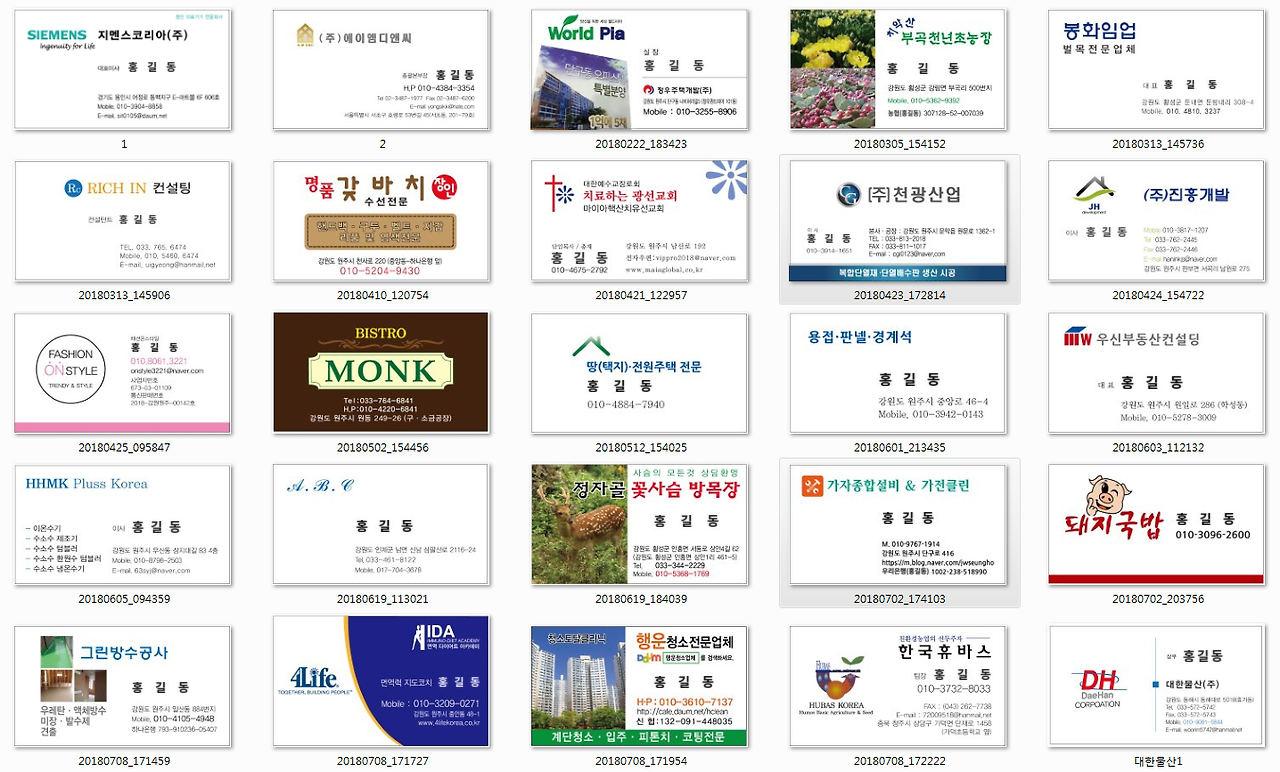
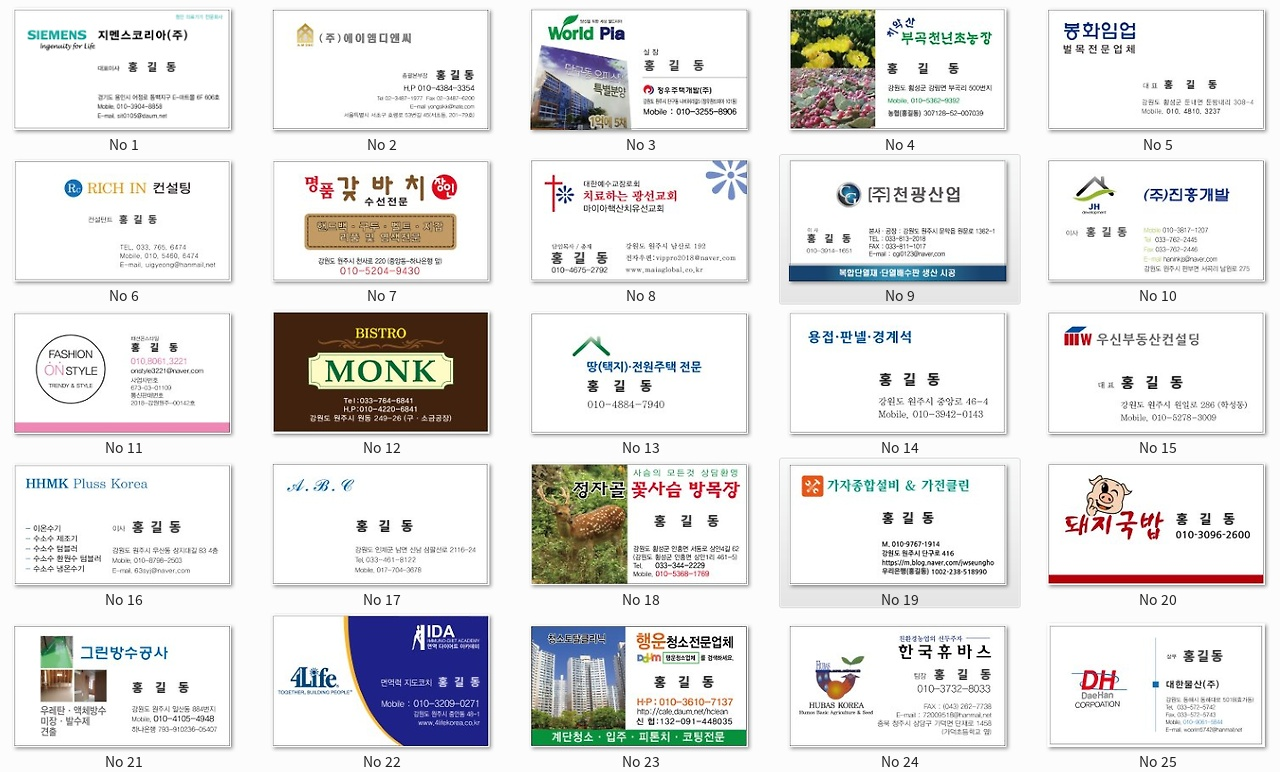
명함번호

diff --git a/admin.html b/admin.html
@@ -11,7 +11,9 @@
 <script src="https://cdnjs.cloudflare.com/ajax/libs/jszip/3.10.1/jszip.min.js"></script>
 <!--
   디자인뱅크 사이트 편집기
-  - 이 파일을 사이트 폴더(index.html 옆)에 두고 크롬이나 엣지로 여세요.
+  - 사이트에 올려 두고 https://dnb1.co.kr/admin.html 로 열면, GitHub 토큰으로 연결해
+    어디서든 바로 고치고 [사이트에 저장]으로 즉시 반영할 수 있습니다. (토큰은 이 파일에 들어 있지 않습니다)
+  - 컴퓨터에서 쓸 때는 이 파일을 사이트 폴더(index.html 옆)에 두고 크롬이나 엣지로 여세요.
   - [사이트 폴더 열기]로 폴더를 고르면 글씨, 사진, 가격표, 공지사항을 고칠 수 있고
     [저장]을 누르면 html 파일과 js/common.js가 직접 수정됩니다.
   - 저장할 때마다 바뀌기 전 파일이 _backup 폴더에 보관됩니다.
@@ -57,6 +59,18 @@ button,input,textarea,select{font:inherit;color:inherit}
 .start-actions{display:flex;flex-direction:column;gap:10px;align-items:stretch;max-width:360px}
 .start-note{font-size:13.5px;border-left:3px solid var(--orange);padding:4px 0 4px 12px}
 .start-err{color:#b3261e;font-weight:500}
+.gh{display:flex;flex-direction:column;gap:14px;max-width:420px}
+.gh .hint a{color:var(--orange-ink);text-decoration:underline}
+.chk{display:flex;gap:8px;align-items:center;font-size:14px;cursor:pointer}
+.chk input{accent-color:var(--orange);width:16px;height:16px}
+.local{max-width:420px;border-top:1px solid var(--line);padding-top:14px}
+.local summary{cursor:pointer;color:var(--mute);font-size:14px}
+.local[open] summary{margin-bottom:14px}
+.local .start-actions{margin-bottom:12px}
+.connecting{font-size:16px;color:var(--ink)}
+.side-foot button{background:none;border:1px solid #4a4848;color:#d6d3d3;padding:6px 10px;border-radius:3px;cursor:pointer;font-size:12.5px}
+.side-foot button:hover{border-color:#fff;color:#fff}
+.btn.view{text-decoration:none;color:inherit}
 
 /* ---------- 버튼 ---------- */
 .btn{display:inline-flex;align-items:center;justify-content:center;gap:6px;min-height:40px;padding:0 16px;border:1px solid var(--line);background:#fff;border-radius:3px;cursor:pointer;font-weight:500;white-space:nowrap}
@@ -120,9 +134,9 @@ button,input,textarea,select{font:inherit;color:inherit}
 .hint{margin:0;color:var(--mute);font-size:12.5px}
 .field.missing{color:var(--mute);font-size:13.5px}
 .field.missing p{margin:0;padding:10px 12px;background:var(--soft)}
-input[type=text],input[type=date],textarea{width:100%;min-height:42px;padding:9px 12px;border:1px solid var(--line);border-radius:3px;background:#fff;line-height:1.55}
+input[type=text],input[type=password],input[type=date],textarea{width:100%;min-height:42px;padding:9px 12px;border:1px solid var(--line);border-radius:3px;background:#fff;line-height:1.55}
 input[type=text]:hover,input[type=date]:hover,textarea:hover{border-color:#a9a7a7}
-input[type=text]:focus,input[type=date]:focus,textarea:focus{outline:none;border-color:var(--orange);box-shadow:0 0 0 3px rgba(250,146,81,.25)}
+input[type=text]:focus,input[type=password]:focus,input[type=date]:focus,textarea:focus{outline:none;border-color:var(--orange);box-shadow:0 0 0 3px rgba(250,146,81,.25)}
 textarea{resize:vertical;min-height:70px;overflow:hidden}
 textarea.list{font-size:14px;line-height:1.75}
 .changed > label::after,.changed > .flabel::after{content:"";display:inline-block;width:8px;height:8px;margin-left:7px;vertical-align:1px;background:var(--red);clip-path:polygon(50% 0,100% 100%,0 100%)}
@@ -216,15 +230,32 @@ textarea.list{font-size:14px;line-height:1.75}
     <h1>사이트 편집기</h1>
   </div>
   <div class="start-r">
-    <p class="lead">사이트 폴더를 열면 페이지 글씨, 사진, 가격표, 포트폴리오 이미지, 공지사항을 칸에 입력하듯 고칠 수 있습니다.</p>
-    <p>index.html이 들어 있는 폴더를 고르세요.</p>
-    <div class="start-actions">
-      <button class="btn accent big" id="openDir" type="button">사이트 폴더 열기</button>
-      <button class="btn big" id="reopen" type="button" hidden></button>
-      <button class="btn ghost" id="openZip" type="button">ZIP 파일로 열기</button>
-    </div>
-    <p class="start-note" id="browserNote"></p>
+    <p class="lead">글씨, 사진, 가격표, 포트폴리오 이미지, 공지사항을 칸에 입력하듯 고치고, 저장하면 사이트에 바로 반영됩니다.</p>
+    <p class="connecting" id="connecting" hidden>GitHub에 연결하는 중입니다…</p>
+    <form class="gh" id="ghForm" autocomplete="off">
+      <div class="field">
+        <label for="ghRepo">GitHub 저장소</label>
+        <input type="text" id="ghRepo" placeholder="아이디/저장소이름" spellcheck="false" required>
+        <p class="hint">github.com/<b>아이디/저장소이름</b> 부분입니다. 주소를 통째로 붙여 넣어도 됩니다.</p>
+      </div>
+      <div class="field">
+        <label for="ghToken">GitHub 토큰</label>
+        <input type="password" id="ghToken" placeholder="github_pat_로 시작하는 값" spellcheck="false" required>
+        <p class="hint"><a href="https://github.com/settings/personal-access-tokens/new" target="_blank" rel="noopener">토큰 만들기</a>에서 이 저장소만 고르고, Contents 권한을 Read and write로 주세요.</p>
+      </div>
+      <label class="chk"><input type="checkbox" id="ghRemember" checked> 이 브라우저에서 기억하기 (다음부터 바로 열림)</label>
+      <button class="btn accent big" type="submit" id="ghGo">연결하고 편집하기</button>
+    </form>
     <p class="start-err" id="startErr" role="alert" hidden></p>
+    <details class="local" id="localBox">
+      <summary>컴퓨터에 있는 사이트 폴더로 편집하기</summary>
+      <div class="start-actions">
+        <button class="btn big" id="openDir" type="button">사이트 폴더 열기</button>
+        <button class="btn big" id="reopen" type="button" hidden></button>
+        <button class="btn ghost" id="openZip" type="button">ZIP 파일로 열기</button>
+      </div>
+      <p class="start-note" id="browserNote"></p>
+    </details>
   </div>
 </div>
 
@@ -236,6 +267,7 @@ textarea.list{font-size:14px;line-height:1.75}
     <span class="spacer"></span>
     <span class="status" id="status" aria-live="polite">고친 내용 없음</span>
     <span class="acts row">
+      <a class="btn sm ghost view" id="viewSite" target="_blank" rel="noopener" hidden>사이트 보기</a>
       <button class="btn sm ghost" id="discard" type="button" disabled>되돌리기</button>
       <button class="btn primary" id="save" type="button" disabled>저장</button>
     </span>
@@ -243,7 +275,11 @@ textarea.list{font-size:14px;line-height:1.75}
   <aside class="side">
     <nav id="nav" aria-label="편집할 페이지"></nav>
     <div class="side-foot" id="sideFoot">
-      <label><input type="checkbox" id="backupChk" checked> 저장할 때 바뀌기 전 파일을 _backup 폴더에 보관</label>
+      <label id="backupLbl"><input type="checkbox" id="backupChk" checked> 저장할 때 바뀌기 전 파일을 _backup 폴더에 보관</label>
+      <div id="ghFoot" hidden>
+        <p style="margin:0 0 10px">저장할 때마다 GitHub에 기록이 남아, 예전 내용으로 언제든 되돌릴 수 있습니다.</p>
+        <button type="button" id="ghLogout">연결 끊기 (저장된 토큰 지우기)</button>
+      </div>
     </div>
   </aside>
   <main class="main" id="main" tabindex="-1"><div class="main-in" id="mainIn"></div></main>
@@ -340,7 +376,7 @@ const SECTIONS = [
    2. 상태
    ========================================================= */
 const S = {
-  mode:null,          // 'fs' = 폴더에 바로 저장, 'mem' = ZIP으로 내려받기
+  mode:null,          // 'gh' = GitHub에 바로 저장(사이트 즉시 반영), 'fs' = 폴더에 바로 저장, 'mem' = ZIP으로 내려받기
   root:null,          // 폴더 핸들 (fs)
   name:'',
   files:new Map(),    // 경로 → File (mem)
@@ -653,10 +689,135 @@ async function handleFor(path, create){
 }
 async function readFile(path){
   if (S.assets.has(path)) return S.assets.get(path);
+  if (S.mode==='gh') return ghRead(path);
   if (S.mode==='fs'){ try{ return await (await handleFor(path)).getFile(); }catch(e){ return null; } }
   return S.files.get(path) || null;
 }
-async function exists(path){ return S.assets.has(path) || !!(await readFile(path)); }
+async function exists(path){
+  if (S.assets.has(path)) return true;
+  if (S.mode==='gh') return GH.tree.has(GH.base+path);
+  return !!(await readFile(path));
+}
+
+/* ---------- GitHub 연결 ---------- */
+const GH = { repo:'', branch:'', token:'', base:'', tree:new Map(), loaded:new Map(), cache:new Map(), site:'' };
+const GH_KEY = 'designbank-admin-github';
+const encPath = p => p.split('/').map(encodeURIComponent).join('/');
+function ghErr(st, msg){
+  if (st===401) return '토큰이 맞지 않거나 기간이 지났습니다. 토큰을 다시 확인해 주세요.';
+  if (st===403) return '이 토큰에는 권한이 부족합니다. 토큰의 Contents 권한을 Read and write로 바꿔 주세요.' + (msg?' ('+msg+')':'');
+  if (st===404) return '저장소를 찾지 못했습니다. 저장소 이름이 맞는지, 토큰을 만들 때 이 저장소를 골랐는지 확인해 주세요.';
+  if (st===409 || st===422) return 'GitHub가 저장을 거절했습니다. 새로고침한 뒤 다시 시도해 주세요.' + (msg?' ('+msg+')':'');
+  return `GitHub 오류(${st})` + (msg?': '+msg:'');
+}
+async function gh(path, opt={}){
+  let r;
+  try{
+    r = await fetch('https://api.github.com'+path, {
+      method: opt.method||'GET', body: opt.body, cache:'no-store',
+      headers: Object.assign({'Authorization':'Bearer '+GH.token, 'Accept':opt.accept||'application/vnd.github+json', 'X-GitHub-Api-Version':'2022-11-28'},
+                             opt.body ? {'Content-Type':'application/json'} : {})
+    });
+  }catch(e){ throw new Error('GitHub에 연결하지 못했습니다. 인터넷 연결을 확인해 주세요.'); }
+  if (!r.ok){ let m=''; try{ m=(await r.json()).message||''; }catch(e){} const err=new Error(ghErr(r.status,m)); err.status=r.status; throw err; }
+  return opt.raw ? r.blob() : r.json();
+}
+async function ghSnapshot(){
+  const ref = await gh(`/repos/${GH.repo}/git/ref/heads/${encodeURIComponent(GH.branch)}`);
+  const sha = ref.object.sha;
+  const c = await gh(`/repos/${GH.repo}/git/commits/${sha}`);
+  const t = await gh(`/repos/${GH.repo}/git/trees/${c.tree.sha}?recursive=1`);
+  const map = new Map(); t.tree.forEach(e=>{ if (e.type==='blob') map.set(e.path, e.sha); });
+  return {sha, treeSha:c.tree.sha, map};
+}
+async function ghRead(path){
+  const sha = GH.tree.get(GH.base+path); if (!sha) return null;
+  if (!GH.cache.has(sha)){
+    const p = gh(`/repos/${GH.repo}/git/blobs/${sha}`, {accept:'application/vnd.github.raw', raw:true})
+      .then(b=>new File([b], path.split('/').pop())).catch(e=>{ GH.cache.delete(sha); return null; });
+    GH.cache.set(sha, p);
+  }
+  return GH.cache.get(sha);
+}
+async function toB64(d){
+  const buf = typeof d==='string' ? new TextEncoder().encode(d) : new Uint8Array(await d.arrayBuffer());
+  let s=''; for (let i=0;i<buf.length;i+=0x8000) s += String.fromCharCode.apply(null, buf.subarray(i, i+0x8000));
+  return btoa(s);
+}
+function parseRepo(v){
+  v = String(v||'').trim().replace(/\.git$/,'').replace(/\/+$/,'');
+  const m = v.match(/github\.com[/:]([^/\s]+)\/([^/\s#?]+)/) || v.match(/^([^/\s]+)\/([^/\s]+)$/);
+  return m ? m[1]+'/'+m[2] : '';
+}
+async function ghConnect(repo, token){
+  GH.repo=repo; GH.token=token; GH.tree=new Map(); GH.loaded=new Map(); GH.cache=new Map();
+  const info = await gh(`/repos/${repo}`);
+  GH.repo = info.full_name;
+  if (info.permissions && info.permissions.push===false) throw new Error('이 토큰으로는 저장소를 읽을 수만 있고 고칠 수 없습니다. Contents 권한을 Read and write로 주세요.');
+  GH.branch = info.default_branch; let pagesPath = null;
+  try{ const pg = await gh(`/repos/${GH.repo}/pages`); if (pg.source){ GH.branch = pg.source.branch || GH.branch; pagesPath = (pg.source.path||'/').replace(/^\//,''); } if (pg.html_url) GH.site = pg.html_url; }catch(e){}
+  const snap = await ghSnapshot();
+  GH.tree = snap.map;
+  // 사이트 위치 찾기: GitHub Pages 설정 폴더 → index.html과 js/common.js가 함께 있는 가장 위쪽 폴더
+  let base = null;
+  if (pagesPath!=null){ const b = pagesPath ? pagesPath.replace(/\/?$/,'/') : ''; if (GH.tree.has(b+'index.html')) base=b; }
+  if (base==null){
+    const c = [...GH.tree.keys()].filter(p=>/(^|\/)index\.html$/.test(p)).map(p=>p.slice(0,-'index.html'.length))
+      .filter(b=>GH.tree.has(b+'js/common.js')).sort((a,b)=>a.length-b.length);
+    base = c.length ? c[0] : null;
+  }
+  if (base==null) throw new Error(`${GH.repo} 저장소에서 index.html과 js/common.js를 찾지 못했습니다. 디자인뱅크 사이트 저장소가 맞는지 확인해 주세요.`);
+  GH.base = base;
+  if (!GH.site && GH.tree.has(base+'CNAME')){ const f=await ghRead('CNAME'); if (f){ const d=(await f.text()).trim().split(/\s/)[0]; if (d) GH.site='https://'+d+'/'; } }
+  S.mode='gh'; S.root=null; S.files.clear(); S.name=GH.repo;
+}
+async function ghCommit(changes, message){
+  const now = await ghSnapshot();
+  const conflicts = changes.filter(c=>{
+    const full = GH.base+c.path, cur = now.map.get(full);
+    return c.isNew ? cur!==undefined : cur!==GH.loaded.get(c.path);
+  }).map(c=>c.path);
+  if (conflicts.length) throw new Error(`다른 곳에서 먼저 바뀐 파일이 있어 저장을 멈췄습니다: ${conflicts.join(', ')}. 고친 내용을 메모해 두고 새로고침한 뒤 다시 고쳐 주세요.`);
+  const items = [];
+  for (const c of changes){
+    const bl = await gh(`/repos/${GH.repo}/git/blobs`, {method:'POST', body:J({content:await toB64(c.data), encoding:'base64'})});
+    items.push({path:GH.base+c.path, mode:'100644', type:'blob', sha:bl.sha, rel:c.path});
+  }
+  const tree = await gh(`/repos/${GH.repo}/git/trees`, {method:'POST', body:J({base_tree:now.treeSha, tree:items.map(({rel,...x})=>x)})});
+  const commit = await gh(`/repos/${GH.repo}/git/commits`, {method:'POST', body:J({message, tree:tree.sha, parents:[now.sha]})});
+  await gh(`/repos/${GH.repo}/git/refs/heads/${encodeURIComponent(GH.branch)}`, {method:'PATCH', body:J({sha:commit.sha})});
+  GH.tree = now.map;
+  items.forEach(i=>{ GH.tree.set(i.path, i.sha); GH.loaded.set(i.rel, i.sha); });
+}
+function ghSaved(){ try{ return JSON.parse(localStorage.getItem(GH_KEY)||sessionStorage.getItem(GH_KEY)||'null'); }catch(e){ return null; } }
+function ghRemember(repo, token, keep){
+  try{ localStorage.removeItem(GH_KEY); sessionStorage.removeItem(GH_KEY); (keep?localStorage:sessionStorage).setItem(GH_KEY, J({repo, token})); }catch(e){}
+}
+async function ghStart(repo, token, keep){
+  startError(''); $('connecting').hidden=false; $('ghForm').hidden=true;
+  try{
+    await ghConnect(repo, token);
+    ghRemember(GH.repo, token, keep);
+    await loadSite();
+    if ($('app').hidden) $('ghForm').hidden=false;
+  }catch(e){
+    startError(e.message);
+    $('ghRepo').value = repo; $('ghToken').value = token;
+    $('ghForm').hidden=false;
+  }finally{ $('connecting').hidden=true; }
+}
+$('ghForm').addEventListener('submit', e=>{
+  e.preventDefault();
+  const repo = parseRepo($('ghRepo').value), token = $('ghToken').value.trim();
+  if (!repo){ startError('저장소는 아이디/저장소이름 형식으로 적어 주세요. 예: designbank/designbank'); $('ghRepo').focus(); return; }
+  if (!token){ startError('GitHub 토큰을 붙여 넣어 주세요.'); $('ghToken').focus(); return; }
+  ghStart(repo, token, $('ghRemember').checked);
+});
+$('ghLogout').addEventListener('click', ()=>{
+  if (M && (J(M)!==J(B) || S.assets.size) && !confirm('저장하지 않은 변경이 있습니다. 그래도 연결을 끊을까요?')) return;
+  try{ localStorage.removeItem(GH_KEY); sessionStorage.removeItem(GH_KEY); }catch(e){}
+  M=null; location.reload();
+});
 async function writeFile(path, data){
   const fh = await handleFor(path, true);
   const w = await fh.createWritable(); await w.write(data); await w.close();
@@ -767,13 +928,19 @@ async function loadSite(){
   const missing=[];
   for (const p of [...Object.values(PAGE), JS]){ const f=await readFile(p); if (f) S.texts[p]=await f.text(); else missing.push(p); }
   if (!S.texts['index.html']){ startError('index.html을 읽지 못했습니다.'); return; }
+  if (S.mode==='gh') for (const p of Object.keys(S.texts)) GH.loaded.set(p, GH.tree.get(GH.base+p));
   M = extract(); B = clone(M);
   $('start').hidden=true; $('app').hidden=false;
-  $('where').innerHTML = S.mode==='fs'
+  $('where').innerHTML = S.mode==='gh'
+    ? `<b>${esc(S.name)}</b> 연결됨. 저장하면 1~2분 뒤 사이트에 반영됩니다.`
+    : S.mode==='fs'
     ? `<b>${esc(S.name)}</b> 폴더를 편집 중입니다. 저장하면 폴더의 파일이 바로 바뀝니다.`
     : `<b>${esc(S.name)}</b> 편집 중입니다. 저장하면 수정된 사이트를 ZIP으로 내려받습니다.`;
-  $('save').textContent = S.mode==='fs' ? '저장' : 'ZIP으로 저장';
-  $('sideFoot').hidden = S.mode!=='fs';
+  $('save').textContent = S.mode==='gh' ? '사이트에 저장' : S.mode==='fs' ? '저장' : 'ZIP으로 저장';
+  $('sideFoot').hidden = S.mode==='mem';
+  $('backupLbl').hidden = S.mode!=='fs';
+  $('ghFoot').hidden = S.mode!=='gh';
+  if (S.mode==='gh' && GH.site){ $('viewSite').href = GH.site; $('viewSite').hidden=false; }
   renderNav(); renderMain(); updateDirty();
   if (missing.length) toast('찾지 못한 파일이 있어 해당 항목은 편집할 수 없습니다: '+missing.join(', '), true);
 }
@@ -1012,7 +1179,13 @@ async function save(){
   if (!n && !assets.length){ toast('바뀐 내용이 없습니다.'); return; }
   $('save').disabled=true; const label=$('save').textContent; $('save').textContent='저장 중…';
   try{
-    if (S.mode==='fs'){
+    if (S.mode==='gh'){
+      const changes = Object.entries(out).map(([path,data])=>({path,data}))
+        .concat(assets.map(([path,data])=>({path,data,isNew:true})));
+      const names = changes.map(c=>c.path.split('/').pop());
+      await ghCommit(changes, '관리자 편집: ' + (names.length>4 ? names.slice(0,4).join(', ')+` 외 ${names.length-4}개` : names.join(', ')));
+      toast(`사이트에 저장했습니다. 1~2분 뒤 반영되며, 사이트에서 새로고침하면 보입니다.`);
+    } else if (S.mode==='fs'){
       let perm = await S.root.queryPermission({mode:'readwrite'});
       if (perm!=='granted') perm = await S.root.requestPermission({mode:'readwrite'});
       if (perm!=='granted') throw new Error('폴더에 저장할 권한이 없습니다. 저장을 다시 누르고 권한을 허용해 주세요.');
@@ -1055,6 +1228,15 @@ window.addEventListener('beforeunload', e=>{ if (M && (J(M)!==J(B) || S.assets.s
    10. 시작
    ========================================================= */
 (async function init(){
+  // GitHub: 기억해 둔 연결이 있으면 바로 엽니다
+  const saved = ghSaved();
+  if (saved && saved.repo && saved.token){
+    $('ghRepo').value = saved.repo;
+    ghStart(saved.repo, saved.token, !!localStorage.getItem(GH_KEY));
+  } else {
+    const h = location.hostname.match(/^([^.]+)\.github\.io$/);
+    if (h){ const seg = location.pathname.split('/').filter(Boolean)[0]; $('ghRepo').value = h[1]+'/'+(seg && !/\.html$/.test(seg) ? seg : h[0]); }
+  }
   const fsOk = 'showDirectoryPicker' in window;
   $('browserNote').textContent = fsOk
     ? '저장하면 폴더 안의 파일이 바로 수정됩니다. 처음 저장할 때 브라우저가 수정 권한을 물어보면 허용해 주세요.'

diff --git a/notice.html b/notice.html
@@ -8,6 +8,14 @@
 <link rel="preconnect" href="https://fonts.gstatic.com" crossorigin>
 <link href="https://fonts.googleapis.com/css2?family=Inter:wght@300;400;500;700;800&family=Noto+Sans+KR:wght@300;400;500;700;800&display=swap" rel="stylesheet">
 <link rel="stylesheet" href="css/style.css">
+<style>
+  /* 모바일에서도 검색칸을 한 줄로 (제목 선택 + 검색어 입력) */
+  @media (max-width:600px){
+    .search{flex-direction:row;align-items:center;gap:8px;padding:14px}
+    .search select{flex:none;width:88px;padding:0 8px;font-size:16px}
+    .search input{flex:1;min-width:0;padding:0 12px;font-size:16px}
+  }
+</style>
 </head>
 <body data-page="notice" data-group="notice">
 

diff --git a/README.md b/README.md
@@ -2,8 +2,17 @@
 디자인회사 소개
 
 ## 내용 편집 (admin.html)
-1. 크롬이나 엣지로 `admin.html`을 엽니다.
-2. [사이트 폴더 열기]로 이 폴더(index.html이 있는 폴더)를 고릅니다.
-3. 왼쪽에서 페이지를 고르고 내용을 고친 뒤 [저장]을 누릅니다. (Ctrl+S도 됩니다)
-- 바뀌기 전 파일은 `_backup/날짜-시간/` 폴더에 자동으로 보관됩니다.
-- 웹서버에 올릴 때 admin.html과 _backup 폴더는 올리지 않아도 됩니다.
+
+### 사이트에서 바로 편집하기 (추천)
+1. https://dnb1.co.kr/admin.html 을 엽니다. (컴퓨터, 휴대폰 어디서든)
+2. 처음 한 번만 GitHub 저장소 이름과 토큰을 넣고 [연결하고 편집하기]를 누릅니다.
+   - 토큰 만들기: GitHub → Settings → Developer settings → Fine-grained tokens → Generate new token
+   - Repository access: 이 저장소만 선택 / Permissions → Contents: Read and write
+3. 왼쪽에서 페이지를 고르고 내용을 고친 뒤 [사이트에 저장]을 누릅니다. 1~2분 뒤 사이트에 반영됩니다.
+- [기억하기]를 켜 두면 다음부터는 admin.html을 열자마자 바로 편집 화면이 나옵니다.
+- 저장할 때마다 GitHub에 기록(커밋)이 남아 예전 내용으로 되돌릴 수 있습니다.
+- 공용 컴퓨터에서는 [기억하기]를 끄거나, 다 쓴 뒤 [연결 끊기]를 누르세요.
+
+### 컴퓨터 폴더로 편집하기
+크롬이나 엣지로 admin.html을 열고 [컴퓨터에 있는 사이트 폴더로 편집하기] → [사이트 폴더 열기]를 누릅니다.
+바뀌기 전 파일은 `_backup/날짜-시간/` 폴더에 보관됩니다. (_backup 폴더는 GitHub에 올리지 않아도 됩니다)
